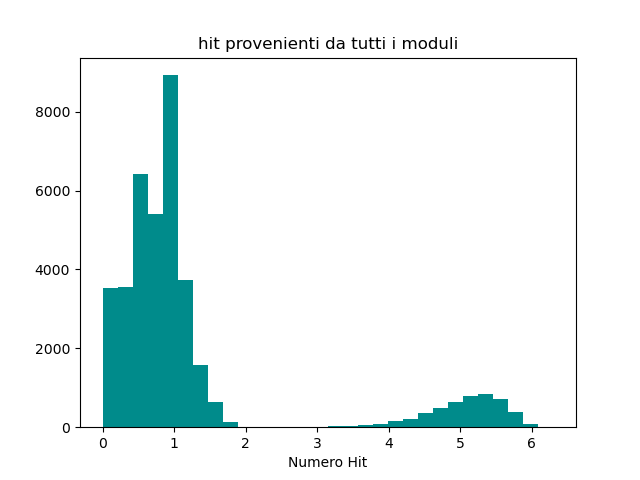
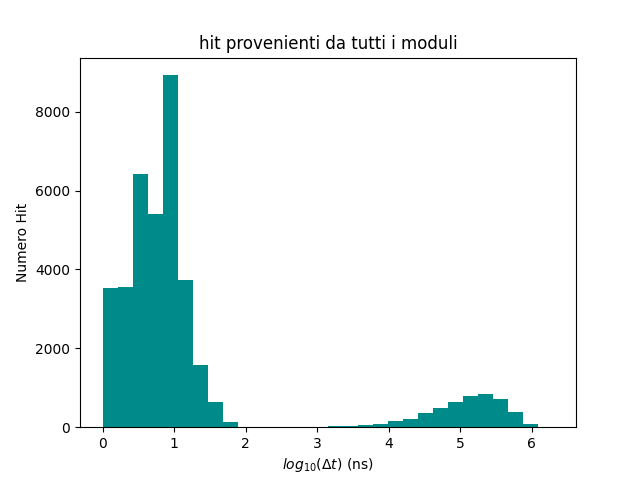
newdir

diff --git a/esercitazione_9b/rivelatori.py b/esercitazione_9b/rivelatori.py
@@ -14,36 +14,36 @@ def arrayHit(tab):
 
 def arrayEventi(aHit, threshold):
     aEve = np.array( [reco.Event()] )
-    tHitPrec = -1000000
+    tHitPrec = aHit[0].time
     for i in range(len(aHit)):
-        if ( (aHit[i].tempo - tHitPrec) > threshold ) :
+        if ( (aHit[i].time - tHitPrec) > threshold ) :
             aEve = np.append(aEve, reco.Event())
         aEve[-1].addHit(aHit[i])
-        tHitPrec = aHit[i].tempo
-            
+        tHitPrec = aHit[i].time        
     return aEve
 
 
-### Evventi del modulo0
+### Module 0 events
 tab = pd.read_csv('hit_times_M0.csv')
 #print(tab)
-'''
-time = tab['hit_time'].values
-plt.hist(time, bins=80, color='darkgreen')
-plt.show()
+if False:
+    time = tab['hit_time'].values
+    plt.hist(time, bins=80, color='darkgreen')
+    plt.show()
+    
+    time_diff = np.diff(time)
+    mask = time_diff > 0
+    
+    plt.hist(np.log10(time_diff[mask]), bins=70, color='darkred')
+    plt.title('hit provenienti dal modulo 0')
+    plt.xlabel(r'$log_{10}(\Delta t)$ (ns)')
+    plt.ylabel('Numero Hit')
+    plt.savefig('modulo0eventi.png')
+    plt.show()
 
-time_diff = np.diff(time)
-mask = time_diff > 0
-
-plt.hist(np.log10(time_diff[mask]), bins=70, color='darkred')
-plt.title('hit provenienti dal modulo 0')
-plt.xlabel('log10 della differenza di tempi tra Hit e successivo (ns)')
-plt.xlabel('Numero Hit')
-plt.savefig('modulo0eventi.png')
-plt.show()
-'''
+        
   
-### Eventi di tutti i moduli
+### All modules' events
 
 a0 = arrayHit(tab) #array_hit(pd.read_csv('hit_times_M0.csv'))
 a1 = arrayHit(pd.read_csv('hit_times_M1.csv'))
@@ -53,32 +53,121 @@ a3 = arrayHit(pd.read_csv('hit_times_M3.csv'))
 aaa = np.empty(0)
 aaa = np.concatenate((a0, a1, a2, a3))
 #print(aaa.shape)
+
 aaa = np.sort(aaa)
 
-aaaTempo = np.array([h.tempo for h in aaa])
-aaaModulo = np.array([h.modulo for h in aaa])
-aaaSensore = np.array([h.sensore for h in aaa])
+aaaTime = np.array([h.time for h in aaa])
+aaaModule = np.array([h.module for h in aaa])
+aaaSensor = np.array([h.sensor for h in aaa])
+#print(aaaTime, aaaModule, aaaSensor)
 
-print(aaaTempo, aaaModulo, aaaSensore)
 aaa_tdiff = (np.diff(aaa)).astype(np.float64)
 
 mask = aaa_tdiff > 0
 aaa_dtime = np.log10(aaa_tdiff[mask])
 
-plt.hist(aaa_dtime, bins=30, color='darkcyan')
-plt.title('hit provenienti da tutti i moduli')
-plt.xlabel(r'$log10(\delta t)$ (ns)')
-plt.xlabel('Numero Hit')
-plt.savefig('Modulo0123Eventi.png')
-plt.show()
+if False:
+    plt.hist(aaa_dtime, bins=30, color='darkcyan')
+    plt.title('All modules\' hits')
+    plt.xlabel(r'$log_{10}(\Delta t)$ (ns)')
+    plt.ylabel('Hits\' number')
+    plt.savefig('Modulo0123Eventi.png')
+    plt.show()
 
+
+### Total events number
 aEve = arrayEventi(aaa, 10**(2.2))
-print('number of total events ', len(aEve)) 
+print('number of total events: ', len(aEve)) 
 
+### Info about first 10 events
 for i in range(10):
-    print(f'-------Event{i}-------', '\n',
-          'hit\'s num = ', '\n',
-          '-----Evento0-----', '\n',
-          '-----Evento0-----', '\n',
-          '-----Evento0-----', '\n',
-          )
+    print(f'----------------Event{i}----------------', '\n',
+          'Hit\'s number = ', aEve[i].nhit, '\n',
+          'First hit\'s time stamp = ', aEve[i].tfhit, '(ns)\n',
+          'Last hit\'s time stamp = ', aEve[i].tlhit, '(ns)\n',
+          'Event\'s time  = ', aEve[i].dt, '(ns)\n',
+          'Hit\'s array = [mod sens time]')
+    for j in range(len(aEve[i].ahit)): print('\t\t', aEve[i].ahit[j], '\n')
+
+
+### Hists
+
+aHits4Eve = np.empty(0)
+aEvenTime = np.empty(0)
+aDeltaTime = np.empty(0)
+for i in range(len(aEve)):
+    aHits4Eve = np.append(aHits4Eve, len(aEve[i].ahit))
+    aEvenTime = np.append(aEvenTime, aEve[i].dt)
+    if (i>0) :
+        aDeltaTime = np.append(aDeltaTime, aEve[i].tfhit - aEve[i-1].tlhit)
+
+### Hits' number per events' hist
+if False:
+    plt.hist(aHits4Eve, bins=20, color='darkviolet')
+    plt.title('hits\' number per events')
+    plt.xlabel('# Hits')
+    plt.savefig('hitPerEvento.png')
+    plt.show()
+
+
+### Events' length hist
+if False:
+    plt.hist(aEvenTime, bins=50, color='salmon')
+    plt.title('Event time span')
+    plt.xlabel('$t_{span}$ (ns)')
+    plt.yscale('log')
+    plt.savefig('durataEvento.png')
+    plt.show()
+
+
+### Delta time between consecutive events
+if False:
+    #mask = aDeltaTime > 0
+    plt.hist(np.log10(aDeltaTime), bins=50, color='springgreen')
+    plt.title(r'$\Delta t$ between consecutive events')
+    plt.xlabel(r'$log_{10}(\Delta t)$ (ns)')
+    plt.yscale('log')
+    plt.savefig('deltaTimeEventi.png')
+    plt.show()
+
+
+### 2D scatter plot tSpan vs hitNumber
+if False:
+    plt.scatter(aHits4Eve, aEvenTime, marker='o', color = 'darkorange', alpha=0.1)
+    plt.title('Event $t_{span}$ vs hits\' number')
+    plt.ylabel('$t_{span}$ (ns)')
+    plt.xlabel('# hits per Event')
+    plt.savefig('tSpanVsNumHit.png')
+    plt.show()
+
+xmod = [-5,  5, -5,  5]
+ymod = [ 5,  5, -5, -5]
+xdet = [-2.5, 2.5, 0, -2.5,  2.5]
+ydet = [ 2.5, 2.5, 0, -2.5, -2.5]
+aX = [xm + xd for xm in xmod for xd in xdet]
+aY = [ym + yd for ym in ymod for yd in ydet]
+
+aPosHitX = np.empty(0)
+aPosHitY = np.empty(0)
+aTHit = np.empty(0)
+
+
+### STEP 5
+if True:
+    img,ax = plt.subplots(figsize=(9,8))
+    plt.scatter(aX, aY, color='lightgray', s=240, alpha=0.3)
+    for i in range(10):
+        for h in aEve[i].ahit:
+            aPosHitX = np.append(aPosHitX, xmod[h.module]+xdet[h.sensor])
+            aPosHitY = np.append(aPosHitY, ymod[h.module]+ydet[h.sensor])
+            aTHit = np.append(aTHit, h.time-aEve[i].tfhit)
+        plt.scatter(aPosHitX, aPosHitY, s=240, c=aTHit, cmap='plasma_r')
+    plt.axvline( 0, color='lightgray')
+    plt.axhline( 0, color='lightgray')
+    plt.xlim(-10, 10)
+    plt.ylim(-10, 10)
+    plt.title('graphic rappresentation of first 10 events with time information')
+    plt.colorbar( ax=ax, label='Hit $t-t_{start}$ (ns)')
+    plt.clim(0, 150)
+    plt.savefig('plasmaPlot.png')
+    plt.show()        

diff --git a/esercitazione_9b/reco.py b/esercitazione_9b/reco.py
@@ -14,19 +14,19 @@ class Hit():
     - simbolo '<'  -->  ordina in base al tempo di due hit
     - simbolo '-'  -->  fa la differenza dei tempi di due hit
     """
-    def __init__(self, modulo, sensore, tempo):
-        self.modulo  = modulo
-        self.sensore = sensore
-        self.tempo   = tempo
-    
+    def __init__(self, module, sensor, time):
+        self.module   = module
+        self.sensor   = sensor
+        self.time     = time
+
     def __lt__(self, other):
-        return self.tempo < other.tempo
+        return self.time < other.time
 
     def __sub__(self, other):
-        return self.tempo - other.tempo
+        return self.time - other.time
     
     def __str__(self):
-        return print("{0},{1},{2}".format(self.modulo, self.sensore, self.tempo))
+        return ("{0}, {1}, {2}".format(self.module, self.sensor, self.time))
         
 
 class Event():
@@ -52,8 +52,8 @@ class Event():
 
     def addHit(self, h):
         if len(self.ahit) == 0:
-            self.tfhit = h.tempo
-        self.tlhit = h.tempo
+            self.tfhit = h.time
+        self.tlhit = h.time
         self.dt = self.tlhit-self.tfhit
         self.ahit = np.append(self.ahit, h)
         self.nhit = len(self.ahit)
